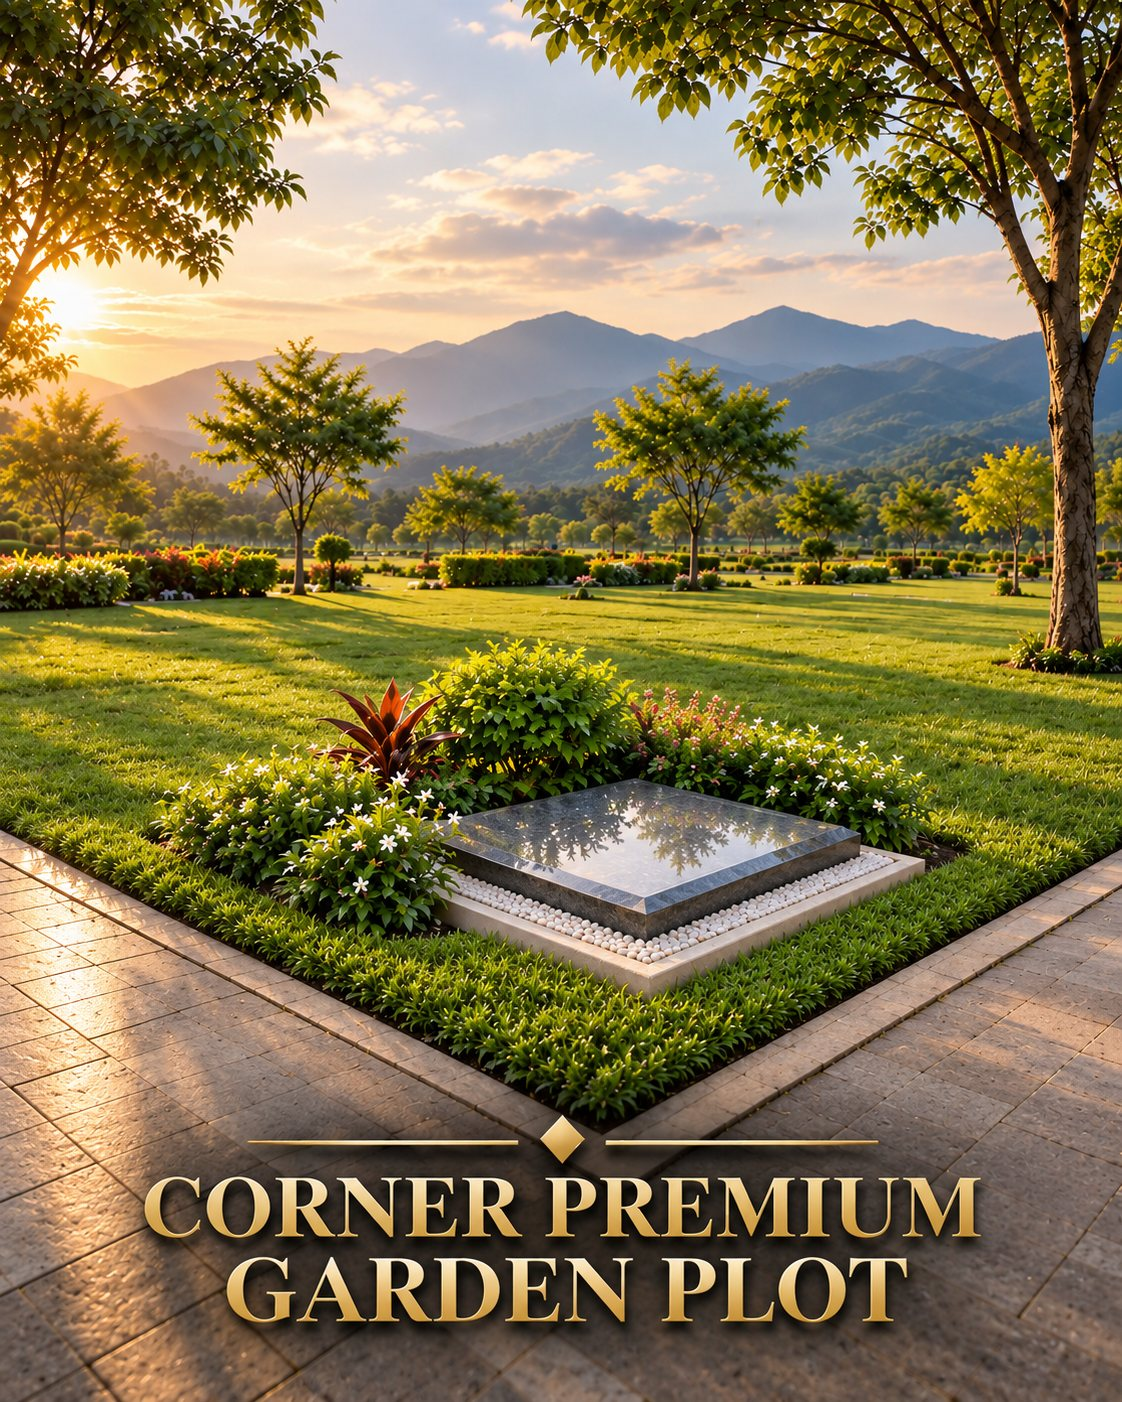
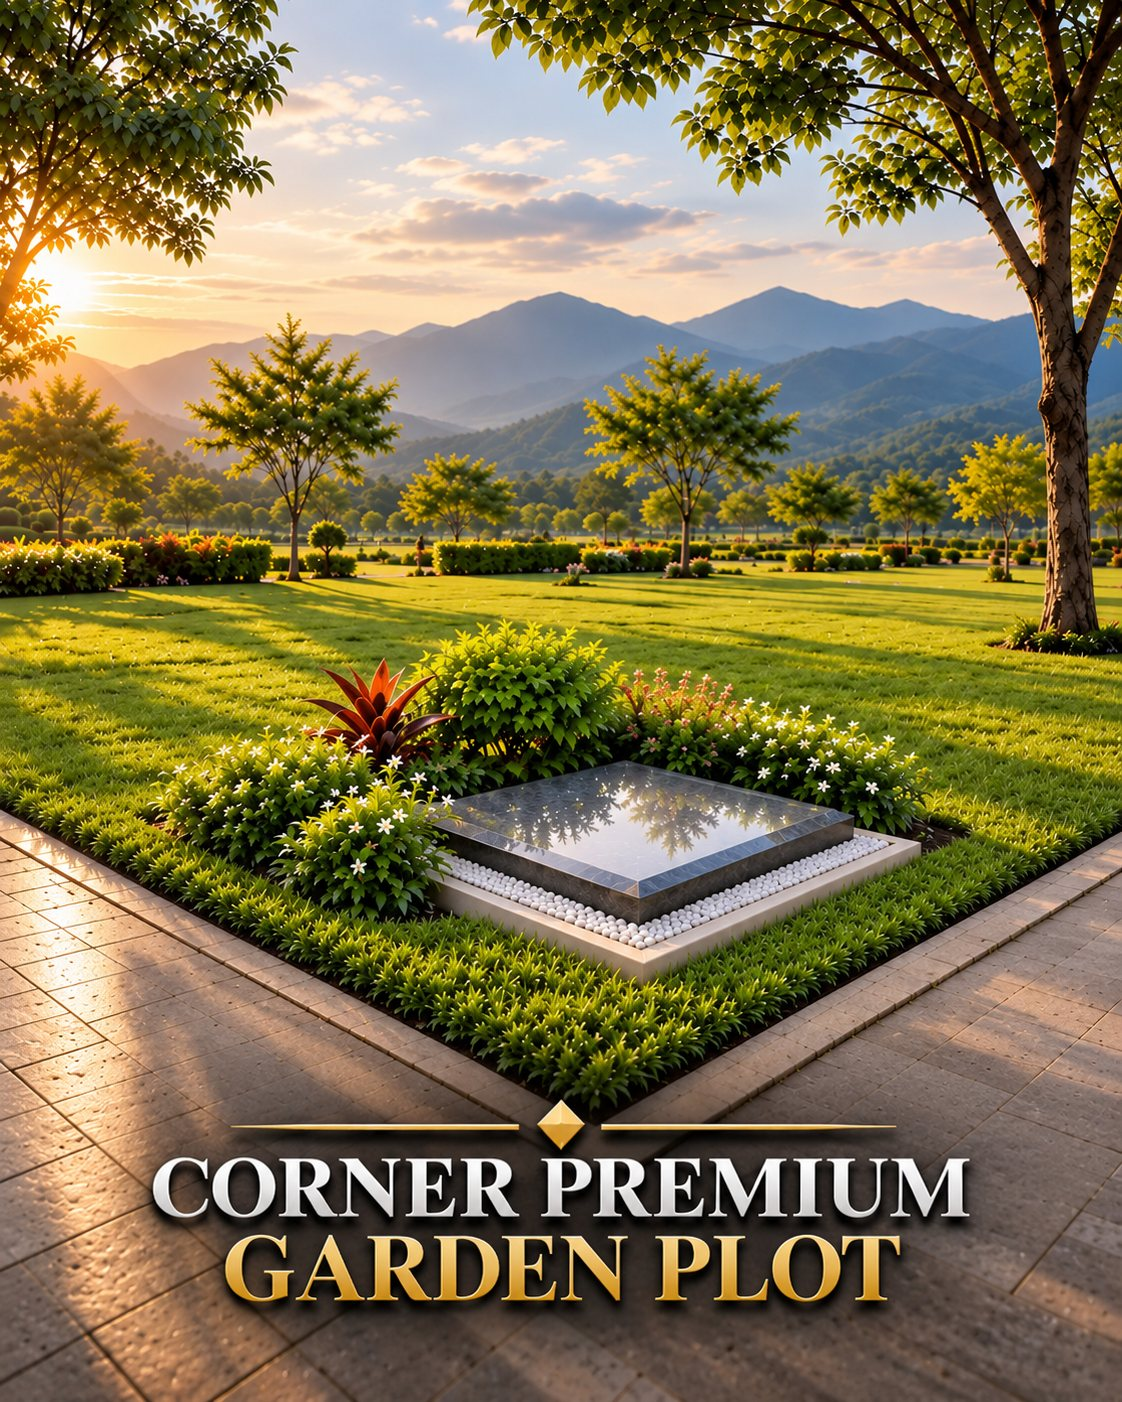
Own pictures for Premium Valor, Corner Premium Valor and Corner Premium Garden plots
Claude-Session: https://claude.ai/code/session_01JTRCdx9LUP5dwVjshN4oRw

diff --git a/site.jsx b/site.jsx
@@ -127,13 +127,13 @@ const BASE_TIERS = [
   id: 'premium-valor', name: 'Premium Valor Plot', category: 'Valor Plots', price: 40000,
   desc: 'Contains two (2) crypt spaces. Purchase includes one (1) crypt only; the other may be separately owned.',
   features: ['1 crypt included (plot has 2 crypt spaces)', 'Perpetual care included', 'Memorial marker with laurel emblem', 'Preferred section placement'],
-  label: 'premium valor plot', image: '/valor_plot.jpg'
+  label: 'premium valor plot', image: '/premium_valor_plot.jpg'
 },
 {
   id: 'corner-premium-valor', name: 'Corner Premium Valor Plot', category: 'Valor Plots', price: 40000,
   desc: 'Contains two (2) crypt spaces. Purchase includes one (1) crypt only; the other may be separately owned.',
   features: ['1 crypt included (plot has 2 crypt spaces)', 'Perpetual care included', 'Memorial marker with laurel emblem', 'Corner placement'],
-  label: 'corner premium valor plot', image: '/valor_plot.jpg'
+  label: 'corner premium valor plot', image: '/corner_premium_valor_plot.jpg'
 },
 {
   id: 'family-vault', name: 'Family Vault', category: 'Family Vault', price: 105000,
@@ -246,7 +246,7 @@ function LightboxRoot({ children }) {
 }
 
 /* The new plot pictures are tall (5:6) with the title built in, so they get a tall frame instead of being cropped. */
-const PORTRAIT_IMAGES = ['/regular_plot.jpg', '/corner_premium_plot.jpg', '/regular_garden_plot.jpg', '/family_vault.jpg', '/valor_plot.jpg', '/corner_prime_garden_plot.jpg', '/premium_garden_plot.jpg', '/mausoleum_elysian.jpg', '/mausoleum_serenity.jpg', '/mausoleum_solace.jpg'];
+const PORTRAIT_IMAGES = ['/regular_plot.jpg', '/corner_premium_plot.jpg', '/regular_garden_plot.jpg', '/family_vault.jpg', '/valor_plot.jpg', '/corner_prime_garden_plot.jpg', '/premium_garden_plot.jpg', '/premium_valor_plot.jpg', '/corner_premium_valor_plot.jpg', '/mausoleum_elysian.jpg', '/mausoleum_serenity.jpg', '/mausoleum_solace.jpg'];
 const isPortraitImage = (src) => PORTRAIT_IMAGES.includes(src);
 
 /* Clickable photo frame — drop-in replacement for a bare .ph placeholder */
@@ -512,8 +512,8 @@ const LOCAL_PLOT_IMAGES = {
   'garden-corner': '/corner_prime_garden_plot.jpg',
   'family-vault': '/family_vault.jpg',
   'valor': '/valor_plot.jpg',
-  'premium-valor': '/valor_plot.jpg',
-  'corner-premium-valor': '/valor_plot.jpg'
+  'premium-valor': '/premium_valor_plot.jpg',
+  'corner-premium-valor': '/corner_premium_valor_plot.jpg'
 };
 
 /* ---------- App ---------- */

diff --git a/presale.jsx b/presale.jsx
@@ -35,10 +35,10 @@
     'garden-regular': { letter: 'g', name: 'Garden Plot', short: 'Garden', fallback: 37500, photo: '/regular_garden_plot.jpg', color: '#43a670' },
     'family-vault': { letter: 'f', name: 'Family Vault', short: 'Family Vault', fallback: 105000, photo: '/family_vault.jpg', color: '#3d9ca3' },
     'premium': { letter: 'p', name: 'Premium Plot', short: 'Premium', fallback: 42500, photo: '/premium_plot.jpg', color: '#e0b31f' },
-    'premium-valor': { letter: 'q', name: 'Premium Valor Plot', short: 'Premium Valor', fallback: 40000, photo: '/valor_plot.jpg', color: '#e0b31f' },
+    'premium-valor': { letter: 'q', name: 'Premium Valor Plot', short: 'Premium Valor', fallback: 40000, photo: '/premium_valor_plot.jpg', color: '#e0b31f' },
     'garden-premium': { letter: 'h', name: 'Premium Garden Plot', short: 'Premium Garden', fallback: 47500, photo: '/premium_garden_plot.jpg', color: '#e0b31f' },
     'corner-premium': { letter: 'c', name: 'Corner Premium Plot', short: 'Corner Premium', fallback: 47500, photo: '/corner_premium_plot.jpg', color: '#d4591c' },
-    'corner-premium-valor': { letter: 'd', name: 'Corner Premium Valor Plot', short: 'Corner Premium Valor', fallback: 40000, photo: '/valor_plot.jpg', color: '#d4591c' },
+    'corner-premium-valor': { letter: 'd', name: 'Corner Premium Valor Plot', short: 'Corner Premium Valor', fallback: 40000, photo: '/corner_premium_valor_plot.jpg', color: '#d4591c' },
     'garden-corner': { letter: 'e', name: 'Corner Premium Garden Plot', short: 'Corner Premium Garden', fallback: 57500, photo: '/corner_prime_garden_plot.jpg', color: '#d4591c' },
     'mausoleum': { letter: 'm', name: 'Mausoleum', short: 'Mausoleum', fallback: 2200000, photo: '/mausoleum_serenity.jpg', color: '#efe7d2' }
   };
